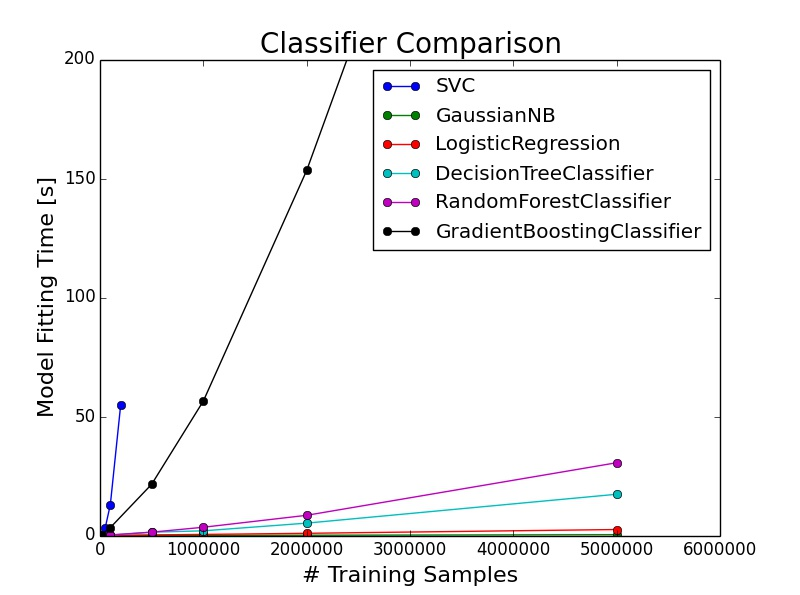
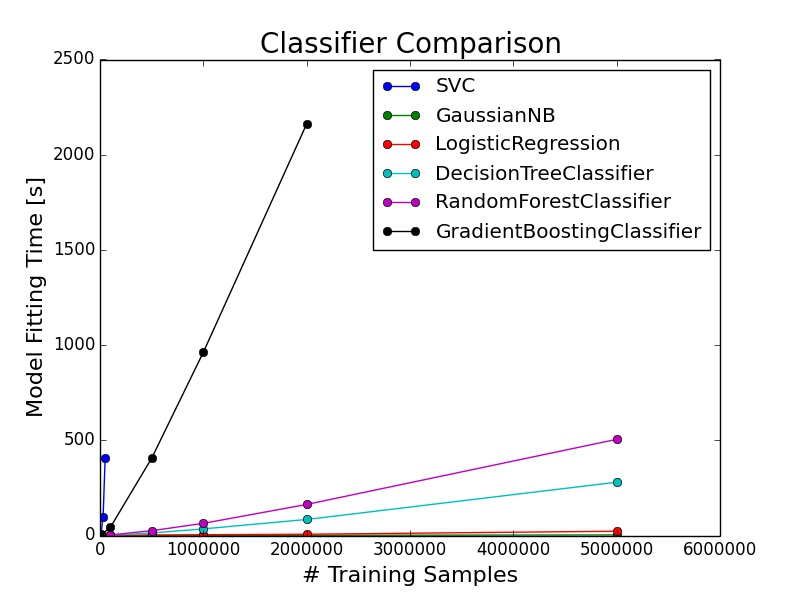
update graphs

diff --git a/html/index.html b/html/index.html
@@ -17,19 +17,19 @@
 
 <p align="left"><b>Analysis: </b>Here is a basic explanation of my code and analysis that I used to solve this binary classification problem. I used Python with the scikit-learn library to perform most of the calculations. I hashed the values in each column taking the top 95% of values in order to avoid the long tail. I have compared the performance of several classifiers in the figures below. </p>
 
-<p align="left"><b>Figure 1.</b> In order to understand which classifier to utilize for my predictions, it is important to understand computational limitations. This graph shows the model fitting time for several classifiers that I used, plotted as a function of the number of training examples. My machine has an Intel Core i7-2600K 3.4GHz CPU and 8GB RAM. Both the logistic regression and the Gaussian Naive Bayes classifiers were very fast, performing under 3 seconds for 5 million training examples. The support vector machine classifier (SVC) did not scale very well and I stopped testing after only 200,000 training examples. </p>
+<p align="left"><b>Figure 1.</b> In order to understand which classifier to utilize for my predictions, it is important to understand computational limitations. This graph shows the model fitting time for several classifiers that I used, plotted as a function of the number of training examples. My machine has an Intel Core i7-2600K 3.4GHz CPU and 8GB RAM. Both the logistic regression and the Gaussian Naive Bayes classifiers were very fast, performing under 30 seconds for 5 million training examples. The support vector machine classifier (SVC) did not scale very well and I stopped testing after only 50,000 training examples. </p>
 
 <img src="classifier_timing2.jpeg", width=600>
 
 <p align="left"><b>Figure 2.</b> The cross validation set logloss error is presented here for several classifiers. I used 2 million training examples with a train / cross validation set split of 90% / 10%, respectively. Clearly, the logistic regression as well as the gradient boosting classifiers produced superior results.
 </p>
 
-<img src="classifier_performance.jpeg", width=600>
+<img src="classifier_performance2.jpeg", width=600>
 
 <p align="left"><b>Figure 3.</b> The Receiver Operating Characteristic (ROC) curves for the same cross validation set used to generate Figure 2 are shown here. The area under the curve (AUC) is printed next to the classifier name in the legend.
 </p>
 
-<img src="ROC_curve.jpeg", width=600>
+<img src="ROC_curve1.jpeg", width=600>
 
 <p align="left"><b>Conclusion: </b>The logistic regression classifier was very fast and produced good results. It was useful in order to quickly iterate over versions of the solution as I performed feature engineering and improved the code. The gradient boosting classifier produced the best overall results, at the expense of the long training time.
 </p>
